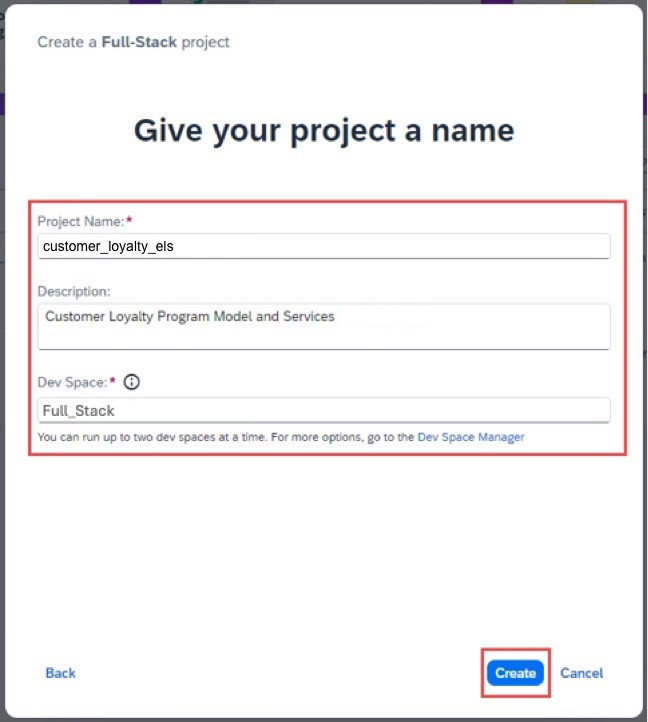
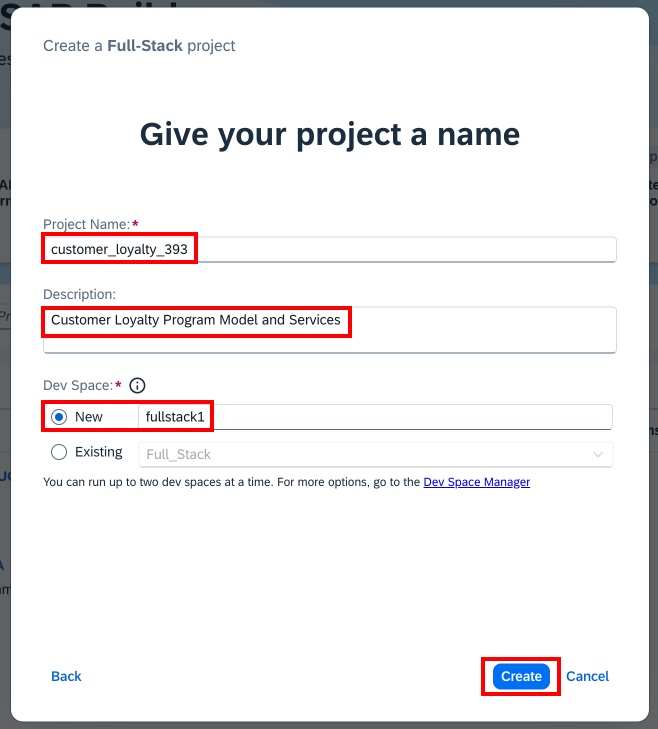
update for ASUG techedlcap

Changed region(s): [[0.0, 0.0, 1.0, 1.0], [0.1852, 0.1524, 0.8025, 0.2133], [0.0617, 0.9141, 0.1235, 0.9446]]

diff --git a/exercises/ex1.1/README.md b/exercises/ex1.1/README.md
@@ -35,7 +35,7 @@ style="width:6.5in;height:3.66736in" />
 |----|----|
 | **Project Name** | **customer_loyalty_xxx** |
 | **Description** | **Customer Loyalty Program Model and Services** |
-| **Dev Space** | **Select the default** |
+| **Dev Space** | Create a **New** Dev Space with the name **fullstack1** |
 
 <img src="images/image5.jpg"
 style="width:6.5in;height:7.25347in" />
